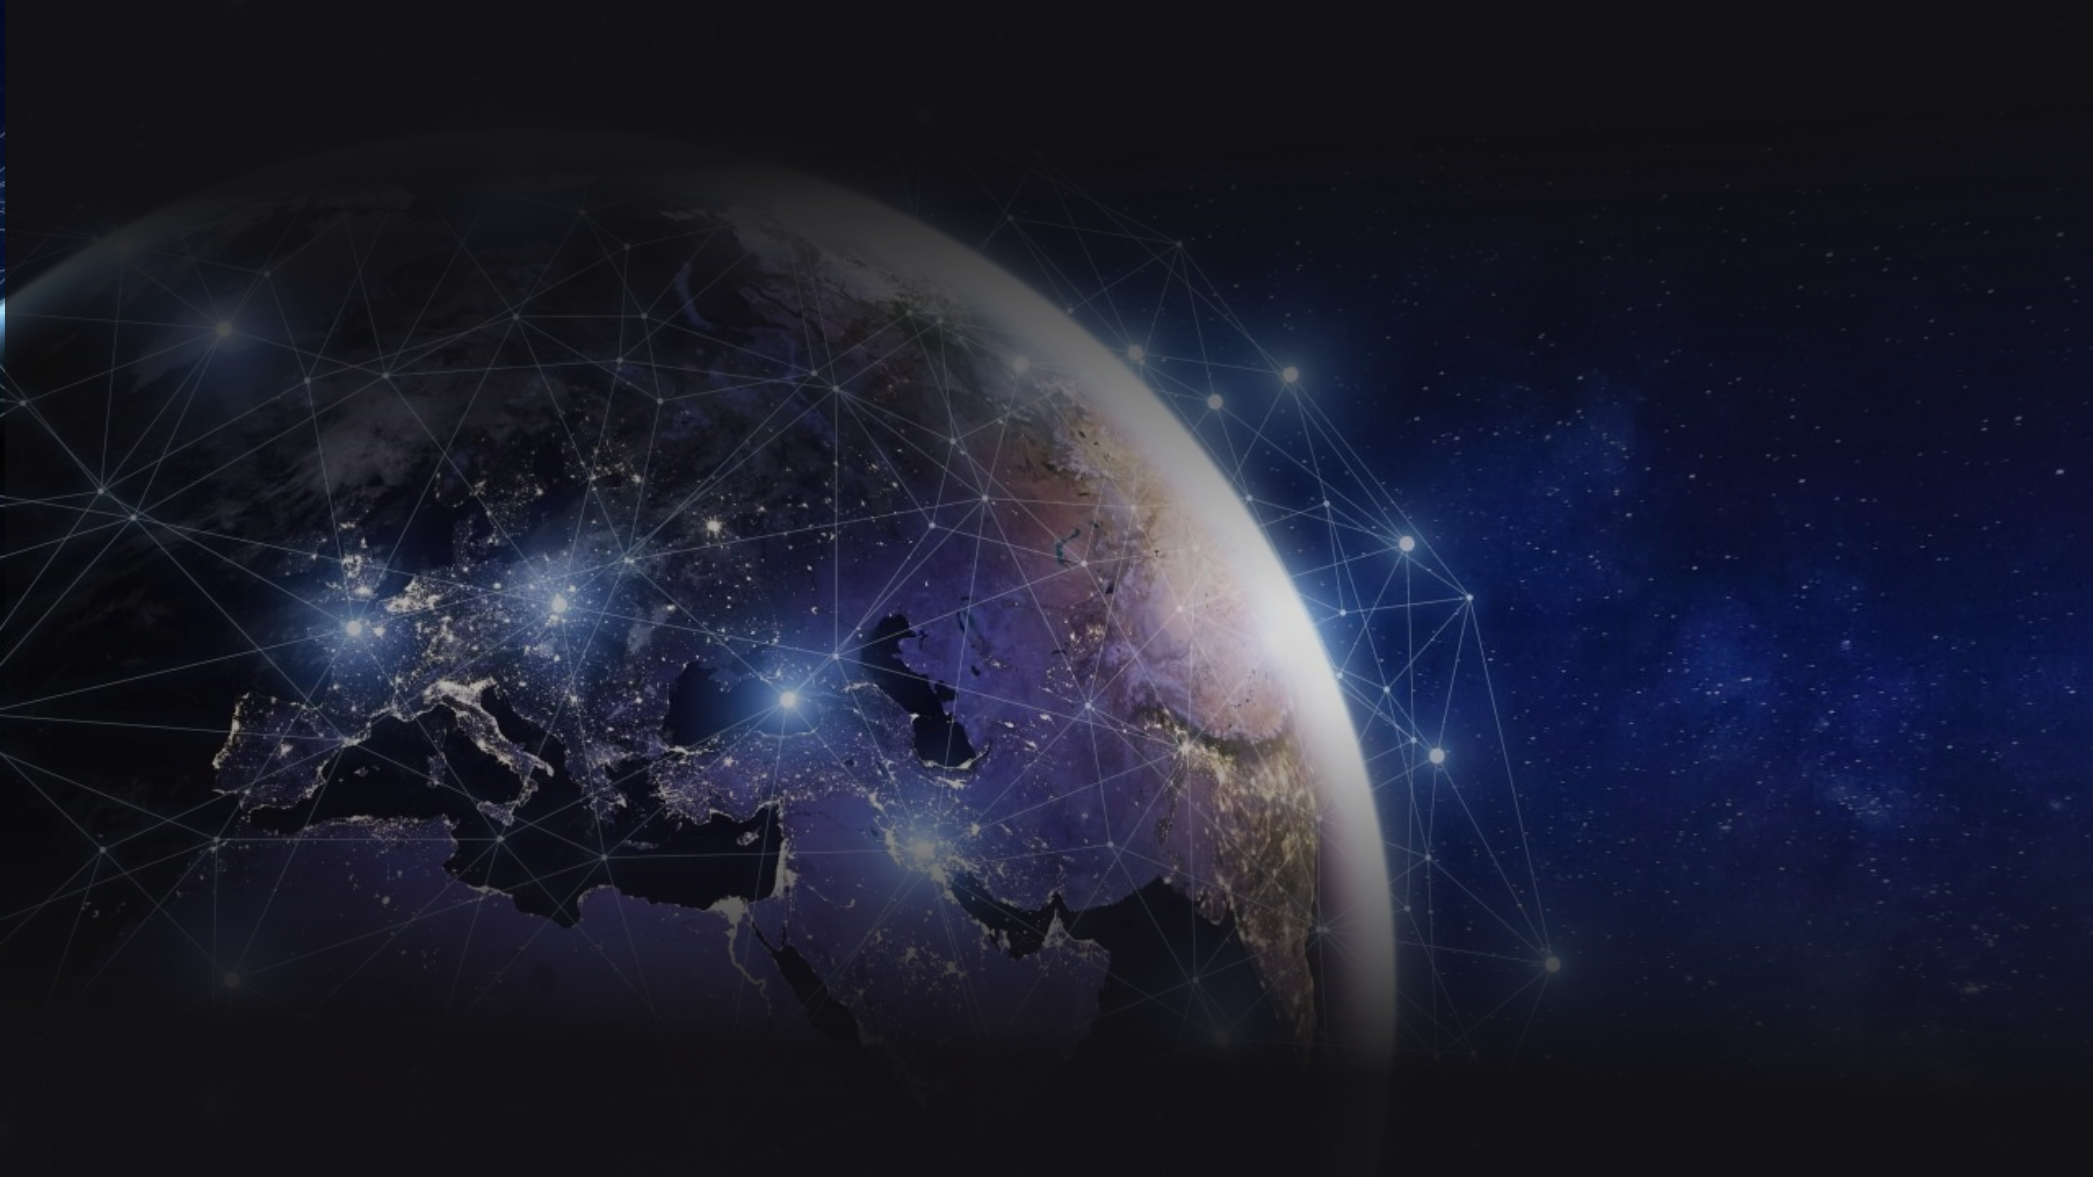
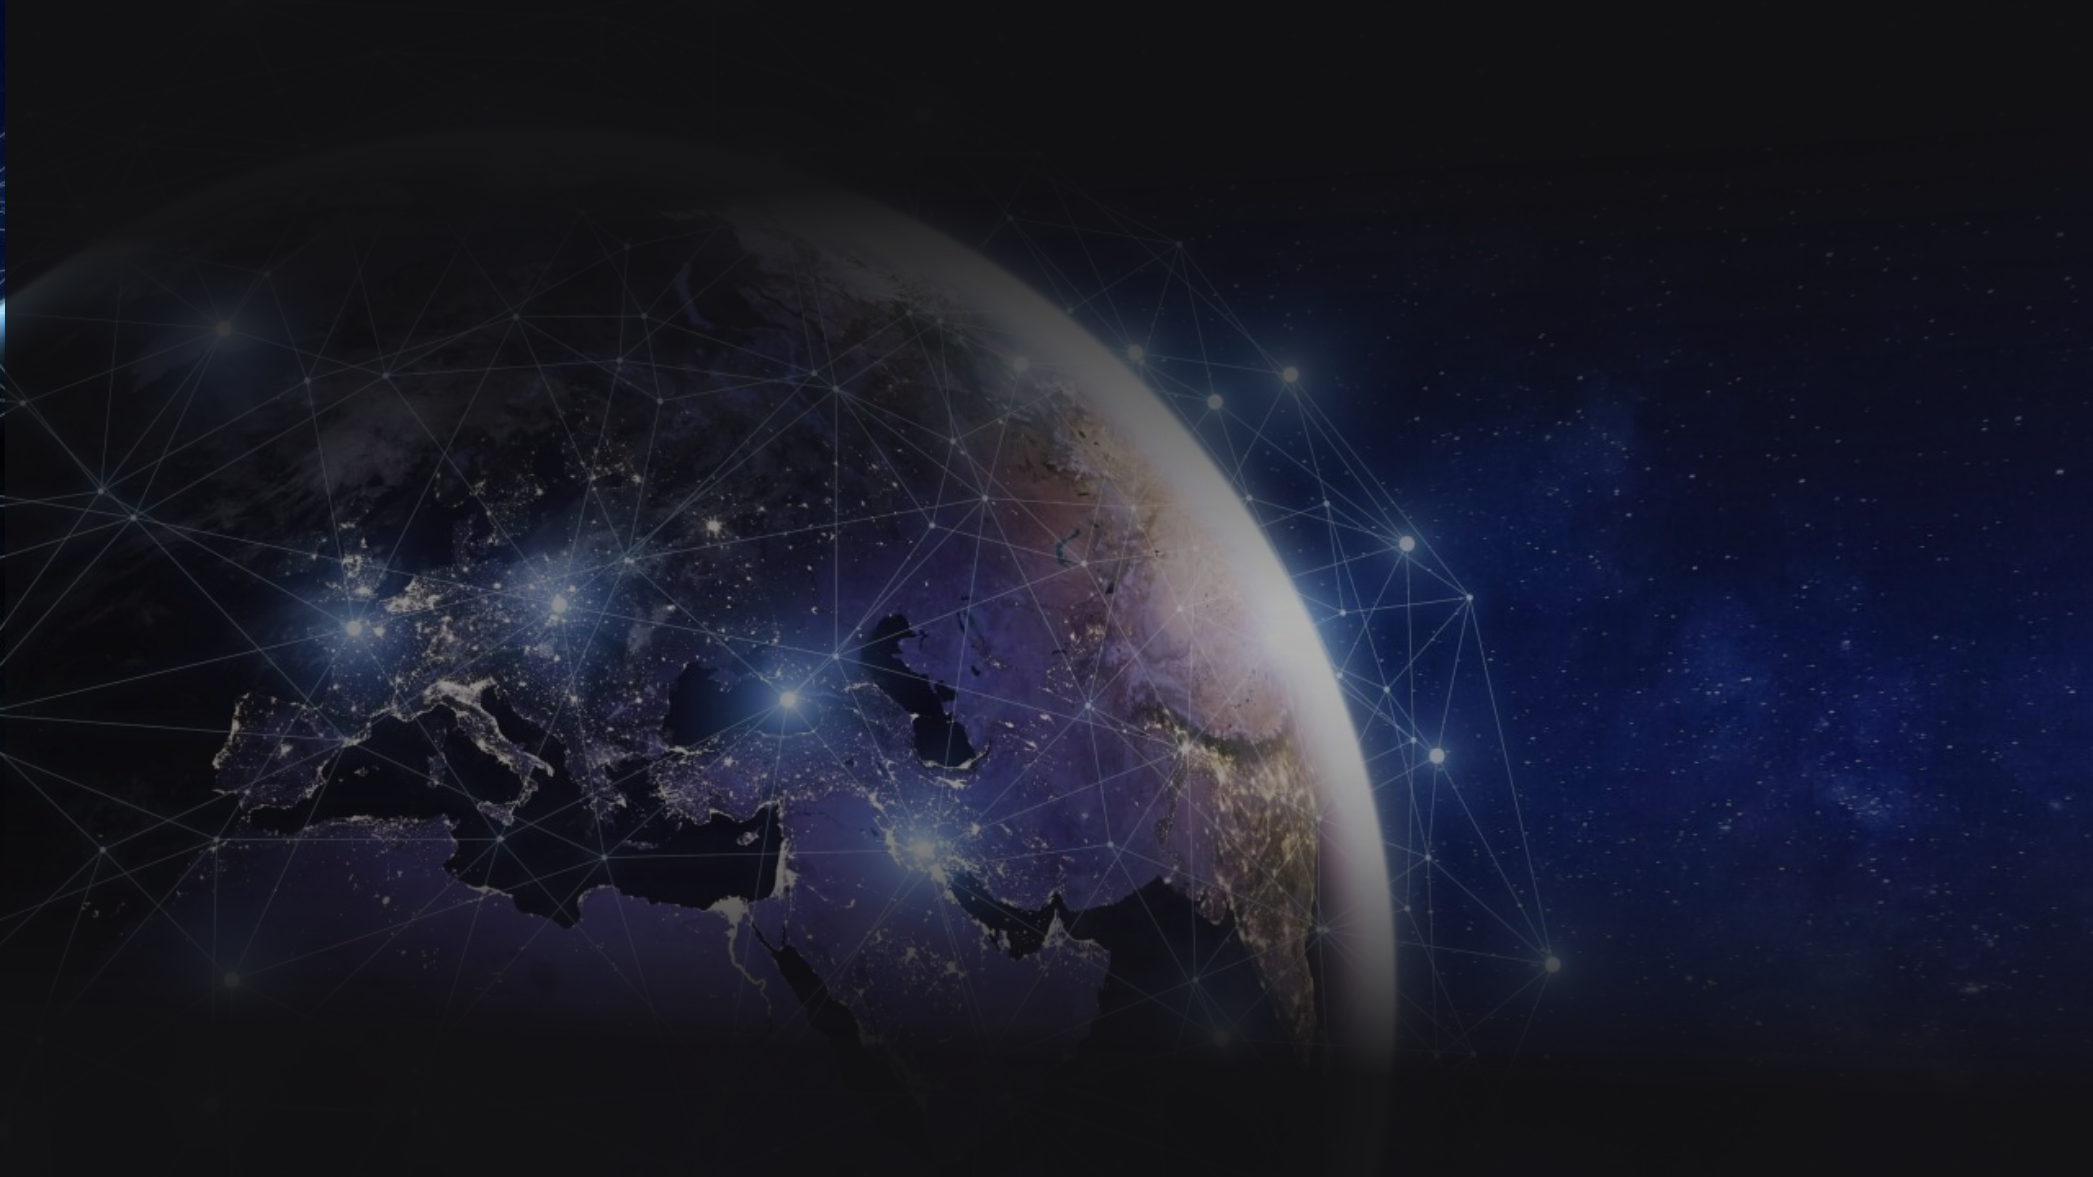
content y header

diff --git a/index.html b/index.html
@@ -333,7 +333,7 @@
                   <!-- Text And Icon Cards Area -->
                     <div class="card right-pane first">
                         <div class="card-body">
-                            <div class="text-wrapper">
+                            <div class="text-wrapper" style="margin-left: 150px;margin-right: 150px;text-align: center;">
                                 <h4 class="card-title">Our EA is simply unstoppable</h4>
                                 <p>
                                   96% success rate! It is really undefeatable on both backtest and live trading!<br/>
@@ -365,7 +365,7 @@
                   <!-- Text And Icon Cards Area -->
                     <div class="card right-pane first">
                         <div class="card-body">
-                            <div class="text-wrapper">
+                            <div class="text-wrapper" style="margin-left: 150px;margin-right: 150px;text-align: center;">
                                 <h4 class="card-title">ThePanda Pips EA works only on EURUSD currency pair</h4>
                                 <p>
                                   It has been successfully and reliably backtested with over 10 years of Forex data.
@@ -393,7 +393,9 @@
               <div class="container">
                 <div class="row">
                   <!-- Text And Icon Cards Area -->
-                    <p style="font-size: 16px; text-align: justify;">
+                    <p style="font-size: 16px; text-align: center;
+                    margin-left: 250px;
+                    margin-right: 250px;">
                       Runs on MetaTrader 4 platform<br/><br/>
                       It's easy to set up.<br/><br/> 
                       One license is provided per account<br/><br/>
@@ -461,7 +463,7 @@
                         class="btn-solid-lg page-scroll"
                         data-toggle="modal"
                         data-target="#exampleModal"
-                        style="color: #4187bc;"
+                        style="color: #000;"
                       >
                         GET THIS PLAN
                       </button>
@@ -490,7 +492,7 @@
                         class="btn-solid-lg page-scroll"
                         data-toggle="modal"
                         data-target="#exampleModal"
-                        style="color: #4187bc;"
+                        style="color: #000;"
                       >
                         GET THIS PLAN
                       </button>

diff --git a/css/styles.css b/css/styles.css
@@ -31,7 +31,6 @@ body,
 html {
   width: 100%;
   height: 100%;
-  background-color: #111012;
 }
 
 body,
@@ -1585,7 +1584,7 @@ a:hover.back-to-top {
   .navbar-custom {
     padding: 1.125rem 5rem 1.125rem 5rem;
     box-shadow: none;
-    background: transparent;
+    background: #000000;
   }
 
   .navbar-custom .navbar-brand.logo-text {
